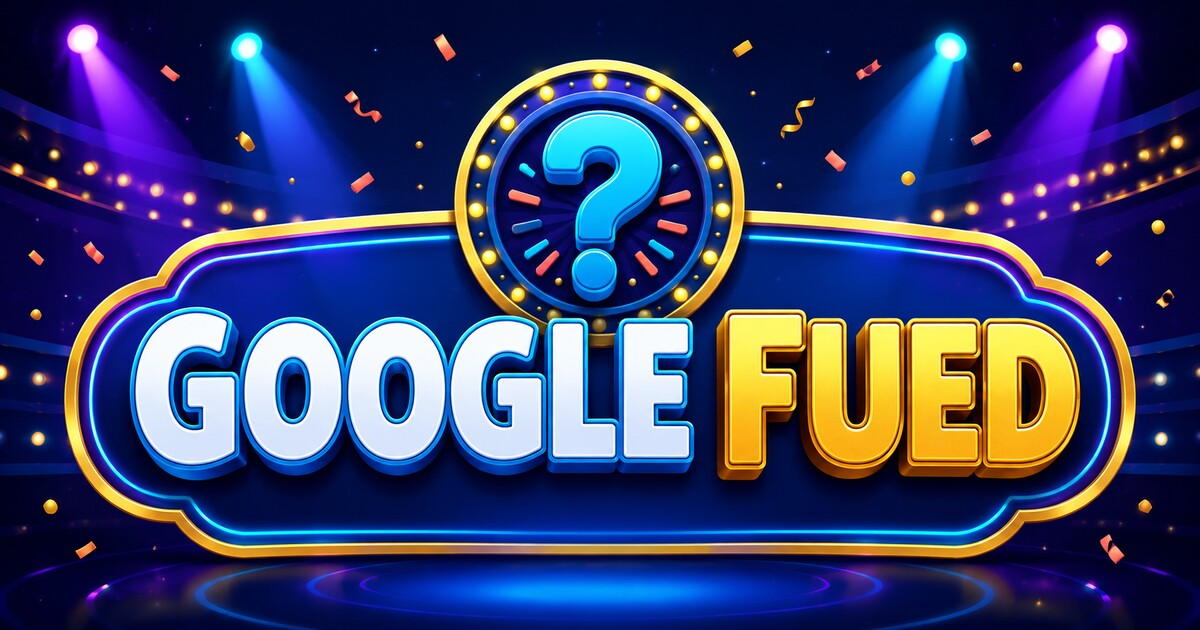
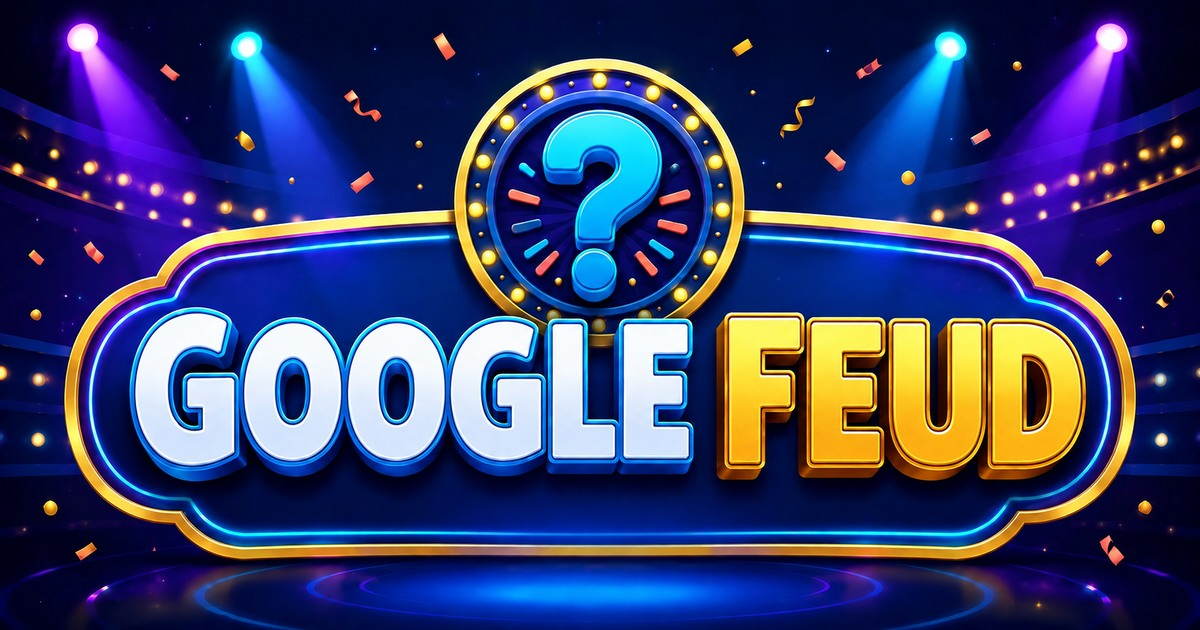
Correct Google Feud spelling across the project

diff --git a/src/services/storage.js b/src/services/storage.js
@@ -1,23 +1,42 @@
-const ACTIVE_GAME_KEY = "googlefued.activeGame";
-const DRAFT_ANSWER_KEY = "googlefued.draftAnswer";
-const RECENT_QUESTION_KEY = "googlefued.recentQuestions";
+const ACTIVE_GAME_KEY = "googlefeud.activeGame";
+const DRAFT_ANSWER_KEY = "googlefeud.draftAnswer";
+const RECENT_QUESTION_KEY = "googlefeud.recentQuestions";
+const LEGACY_KEYS = {
+  activeGame: "googlefued.activeGame",
+  draftAnswer: "googlefued.draftAnswer",
+  recentQuestions: "googlefued.recentQuestions"
+};
+
+function readWithLegacyMigration(key, legacyKey) {
+  const current = localStorage.getItem(key);
+  if (current !== null) return current;
+  const legacy = localStorage.getItem(legacyKey);
+  if (legacy !== null) {
+    localStorage.setItem(key, legacy);
+    localStorage.removeItem(legacyKey);
+  }
+  return legacy;
+}
 
 export const sessionStore = {
   setActiveGame(gameId) {
     localStorage.setItem(ACTIVE_GAME_KEY, gameId);
+    localStorage.removeItem(LEGACY_KEYS.activeGame);
   },
   getActiveGame() {
-    return localStorage.getItem(ACTIVE_GAME_KEY);
+    return readWithLegacyMigration(ACTIVE_GAME_KEY, LEGACY_KEYS.activeGame);
   },
   clearActiveGame() {
     localStorage.removeItem(ACTIVE_GAME_KEY);
+    localStorage.removeItem(LEGACY_KEYS.activeGame);
   },
   saveDraft(gameId, roundNumber, answer) {
     localStorage.setItem(DRAFT_ANSWER_KEY, JSON.stringify({ gameId, roundNumber, answer }));
+    localStorage.removeItem(LEGACY_KEYS.draftAnswer);
   },
   readDraft(gameId, roundNumber) {
     try {
-      const draft = JSON.parse(localStorage.getItem(DRAFT_ANSWER_KEY));
+      const draft = JSON.parse(readWithLegacyMigration(DRAFT_ANSWER_KEY, LEGACY_KEYS.draftAnswer));
       return draft?.gameId === gameId && draft?.roundNumber === roundNumber ? draft.answer : "";
     } catch {
       return "";
@@ -25,10 +44,11 @@ export const sessionStore = {
   },
   clearDraft() {
     localStorage.removeItem(DRAFT_ANSWER_KEY);
+    localStorage.removeItem(LEGACY_KEYS.draftAnswer);
   },
   getRecentQuestionIds() {
     try {
-      const ids = JSON.parse(localStorage.getItem(RECENT_QUESTION_KEY));
+      const ids = JSON.parse(readWithLegacyMigration(RECENT_QUESTION_KEY, LEGACY_KEYS.recentQuestions));
       return Array.isArray(ids) ? ids.filter((id) => typeof id === "string") : [];
     } catch {
       return [];
@@ -37,5 +57,6 @@ export const sessionStore = {
   rememberQuestionIds(ids, limit = 250) {
     const combined = [...ids, ...this.getRecentQuestionIds()];
     localStorage.setItem(RECENT_QUESTION_KEY, JSON.stringify([...new Set(combined)].slice(0, limit)));
+    localStorage.removeItem(LEGACY_KEYS.recentQuestions);
   }
 };

diff --git a/index.html b/index.html
@@ -5,19 +5,19 @@
     <meta name="viewport" content="width=device-width, initial-scale=1, viewport-fit=cover" />
     <meta name="theme-color" content="#100b38" />
     <meta name="description" content="A fast, family-friendly autocomplete guessing game." />
-    <meta property="og:title" content="Google Fued" />
+    <meta property="og:title" content="Google Feud" />
     <meta property="og:description" content="Can your answer climb the autocomplete board?" />
     <meta property="og:type" content="website" />
-    <meta property="og:url" content="https://seansommer.github.io/googlefued/" />
-    <meta property="og:image" content="https://seansommer.github.io/googlefued/assets/social-share.jpg" />
+    <meta property="og:url" content="https://seansommer.github.io/googlefeud/" />
+    <meta property="og:image" content="https://seansommer.github.io/googlefeud/assets/social-share.jpg" />
     <meta property="og:image:width" content="1200" />
     <meta property="og:image:height" content="630" />
-    <meta property="og:image:alt" content="Google Fued game-show stage with a glowing question mark" />
+    <meta property="og:image:alt" content="Google Feud game-show stage with a glowing question mark" />
     <meta name="twitter:card" content="summary_large_image" />
-    <meta name="twitter:title" content="Google Fued" />
+    <meta name="twitter:title" content="Google Feud" />
     <meta name="twitter:description" content="Can your answer climb the autocomplete board?" />
-    <meta name="twitter:image" content="https://seansommer.github.io/googlefued/assets/social-share.jpg" />
-    <title>Google Fued</title>
+    <meta name="twitter:image" content="https://seansommer.github.io/googlefeud/assets/social-share.jpg" />
+    <title>Google Feud</title>
     <link rel="manifest" href="./manifest.webmanifest" />
     <link rel="icon" href="./assets/icon.svg" type="image/svg+xml" />
     <link rel="preconnect" href="https://fonts.googleapis.com" />

diff --git a/src/services/effects.js b/src/services/effects.js
@@ -1,9 +1,17 @@
-const SOUND_PREFERENCE_KEY = "googlefued.soundEnabled.v1";
+const SOUND_PREFERENCE_KEY = "googlefeud.soundEnabled.v1";
+const LEGACY_SOUND_PREFERENCE_KEY = "googlefued.soundEnabled.v1";
 
 let audioContext = null;
 let soundEnabled = true;
 try {
-  soundEnabled = localStorage.getItem(SOUND_PREFERENCE_KEY) !== "false";
+  const storedPreference = localStorage.getItem(SOUND_PREFERENCE_KEY);
+  const legacyPreference = localStorage.getItem(LEGACY_SOUND_PREFERENCE_KEY);
+  const preference = storedPreference ?? legacyPreference;
+  soundEnabled = preference !== "false";
+  if (storedPreference === null && legacyPreference !== null) {
+    localStorage.setItem(SOUND_PREFERENCE_KEY, legacyPreference);
+    localStorage.removeItem(LEGACY_SOUND_PREFERENCE_KEY);
+  }
 } catch {
   soundEnabled = true;
 }
@@ -55,6 +63,7 @@ export const soundEffects = {
     soundEnabled = !soundEnabled;
     try {
       localStorage.setItem(SOUND_PREFERENCE_KEY, String(soundEnabled));
+      localStorage.removeItem(LEGACY_SOUND_PREFERENCE_KEY);
     } catch {
       // Sound still works for this visit when browser storage is unavailable.
     }

diff --git a/src/config.js b/src/config.js
@@ -1,11 +1,11 @@
 export const APP_CONFIG = {
-  title: "Google Fued",
+  title: "Google Feud",
   tagline: "Guess what the internet finishes.",
   officialDisclaimer:
     "Unofficial, fan-made party game. Not affiliated with or endorsed by Google LLC or Family Feud.",
   funnyDisclaimer:
     "Autocomplete has a mind of its own. No search engines were emotionally consulted.",
-  repositoryUrl: "https://github.com/seansommer/googlefued",
+  repositoryUrl: "https://github.com/seansommer/googlefeud",
   scoreByRank: [10, 7, 5, 4, 3, 2, 1],
   maxPlayers: 16,
   minRounds: 1,
@@ -21,7 +21,7 @@ export const APP_CONFIG = {
     appId: "1:725218404048:web:4213999a77be57a59ca0d5"
   },
   // A Cloudflare Worker URL can protect a live suggestion-provider API key.
-  // Example: https://googlefued-suggestions.YOUR-NAME.workers.dev
+  // Example: https://googlefeud-suggestions.YOUR-NAME.workers.dev
   suggestionEndpoint: ""
 };
 

diff --git a/src/app.js b/src/app.js
@@ -221,7 +221,7 @@ function renderHome() {
     `${celebrationPieces(22, "home-confetti")}<section class="hero">
       <div class="hero-copy">
         <p class="eyebrow">The autocomplete party game</p>
-        <h1>GOOGLE <span class="accent">FUED</span></h1>
+        <h1>GOOGLE <span class="accent">FEUD</span></h1>
         <p class="tagline">${escapeHtml(APP_CONFIG.tagline)}</p>
         <p class="disclaimer">${escapeHtml(APP_CONFIG.funnyDisclaimer)}</p>
         <div class="button-row center">

diff --git a/service-worker.js b/service-worker.js
@@ -1,4 +1,4 @@
-const CACHE = "googlefued-shell-v7";
+const CACHE = "googlefeud-shell-v8";
 const ASSETS = [
   "./",
   "./index.html",

diff --git a/docs/SETUP.md b/docs/SETUP.md
@@ -5,14 +5,20 @@ Work through these sections in order. The app runs only against the live Firebas
 ## 1. Create the Firebase project
 
 1. Go to [Firebase Console](https://console.firebase.google.com/), sign in, and choose **Create a project**.
-2. Use a name such as `googlefued`. Google Analytics is not required for this game and can remain disabled.
+2. Use a name such as `googlefeud`. Google Analytics is not required for this game and can remain disabled.
 3. Keep the project on Firebase's no-cost **Spark** plan.
 4. From Project Overview, choose the **Web** icon (`</>`).
-5. Register a web app named `Google Fued Web`. Firebase Hosting is not needed because GitHub Pages hosts the files.
+5. Register a web app named `Google Feud Web`. Firebase Hosting is not needed because GitHub Pages hosts the files.
 6. Firebase displays a configuration object containing `apiKey`, `authDomain`, `databaseURL` or project information, `projectId`, and `appId`.
 7. Open `src/config.js` and replace every `REPLACE_ME` value inside `APP_CONFIG.firebase`. If the registration snippet does not show `databaseURL`, add it after creating Realtime Database in Step 3 below.
 
 Firebase's web configuration is designed to appear in browser code. Do not treat it as a private server key. Security comes from Authentication and Database Rules.
+
+### Existing-project spelling correction
+
+For the current project, open **Project settings → General** and change both **Project name** and **Public-facing name** to `Google Feud`. Also update the web app nickname to `Google Feud Web` if Firebase offers the edit control.
+
+Do not change the existing `projectId`, `authDomain`, or `databaseURL` values in `src/config.js`. Firebase project IDs are permanent after resource provisioning, so the current internal identifier must remain in those three connection values. It is not displayed anywhere in the game. A completely new Firebase project would be required to replace that internal ID and would require migrating every account, game, and statistic.
 
 ## 2. Enable password-free sign-in
 
@@ -103,7 +109,7 @@ Use either Cloudflare's browser editor or Wrangler. The browser route is simples
 
 1. Create a free [Cloudflare](https://dash.cloudflare.com/) account.
 2. Open **Workers & Pages → Create → Worker**.
-3. Name the Worker `googlefued-suggestions`.
+3. Name the Worker `googlefeud-suggestions`.
 4. Replace the sample code with `cloudflare-worker/worker.js`, then deploy.
 5. Open the Worker's **Settings → Variables and Secrets**.
 6. Add a secret named `SERPAPI_KEY` containing the SerpApi key.
@@ -114,9 +120,9 @@ Use either Cloudflare's browser editor or Wrangler. The browser route is simples
    ```
 
 8. Redeploy the Worker if Cloudflare requests it.
-9. Copy the Worker's `https://...workers.dev` URL.
-10. Open `https://YOUR-WORKER.workers.dev/health` and confirm it returns `{"ok":true,"providerConfigured":true}`.
-11. In `src/config.js`, set `suggestionEndpoint` to the Worker base URL, without `/health`.
+9. Copy the Worker's URL: `https://googlefeud-suggestions.musicmansean87.workers.dev`.
+10. Open `https://googlefeud-suggestions.musicmansean87.workers.dev/health` and confirm it returns `{"ok":true,"providerConfigured":true}`.
+11. In `src/config.js`, set `suggestionEndpoint` to that Worker base URL, without `/health`.
 
 The Worker validates input, limits CORS to the GitHub Pages origin, keeps the key server-side, returns exactly seven results, and disables provider caching. New games then use 500 varied prompt starters, remember the last 250 prompt IDs on that host device, and request the answer board immediately before each round. If one prompt returns fewer than seven results, the app tries another unused prompt. It never substitutes a saved board into a live game.
 
@@ -125,20 +131,20 @@ The Worker validates input, limits CORS to the GitHub Pages origin, keeps the ke
 The repository address will be:
 
 ```text
-https://github.com/seansommer/googlefued
+https://github.com/seansommer/googlefeud
 ```
 
 The published game address will be:
 
 ```text
-https://seansommer.github.io/googlefued/
+https://seansommer.github.io/googlefeud/
 ```
 
 ### GitHub website method
 
 1. Sign in to GitHub as `seansommer`.
 2. Choose **New repository**.
-3. Set the repository name to `googlefued`.
+3. Set the repository name to `googlefeud`.
 4. Choose **Public**. GitHub Free Pages for this project requires a public repository.
 5. Do not add a second README, license, or `.gitignore`; the project already includes them.
 6. Upload every project file and folder, preserving the folder structure.
@@ -146,7 +152,7 @@ https://seansommer.github.io/googlefued/
 8. Open **Settings → Pages**.
 9. Under **Build and deployment → Source**, choose **GitHub Actions**.
 10. Open the repository's **Actions** tab. The included Pages workflow should run automatically.
-11. When it finishes successfully, open `https://seansommer.github.io/googlefued/`.
+11. When it finishes successfully, open `https://seansommer.github.io/googlefeud/`.
 
 Every future commit to `main` automatically republishes the site.
 

diff --git a/docs/GO_LIVE.md b/docs/GO_LIVE.md
@@ -5,20 +5,25 @@ The website, accounts, rooms, scores, teams, and game history already use the li
 ## What is needed
 
 1. A SerpApi account and private API key.
-2. A Cloudflare account with the `googlefued-suggestions` Worker deployed.
+2. The deployed `googlefeud-suggestions` Cloudflare Worker.
 3. The public Worker URL added to `src/config.js`.
 
 The SerpApi key must never be placed in ChatGPT messages, GitHub, `src/config.js`, or any browser file. Enter it only in Cloudflare as an encrypted Worker secret.
 
-## Deploy the Worker
+## Finish the deployed Worker
 
-1. In Cloudflare, open **Workers & Pages** and create a Worker named `googlefued-suggestions`.
-2. Replace the sample with the complete contents of `cloudflare-worker/worker.js` and deploy it.
-3. Open the Worker's **Settings → Variables and Secrets**.
-4. Add an encrypted secret named `SERPAPI_KEY`.
-5. Add a plain-text variable named `ALLOWED_ORIGIN` with the value `https://seansommer.github.io`.
-6. Redeploy after saving the variables.
-7. Open `https://YOUR-WORKER.workers.dev/health`.
+The corrected Worker is already deployed at:
+
+```text
+https://googlefeud-suggestions.musicmansean87.workers.dev
+```
+
+1. In Cloudflare, open **Workers & Pages → googlefeud-suggestions**.
+2. Open **Settings → Variables and Secrets**.
+3. Add an encrypted secret named `SERPAPI_KEY`.
+4. Confirm the plain-text `ALLOWED_ORIGIN` variable is `https://seansommer.github.io`.
+5. Redeploy after saving the secret.
+6. Open `https://googlefeud-suggestions.musicmansean87.workers.dev/health`.
 
 A ready Worker returns:
 
@@ -31,7 +36,7 @@ A ready Worker returns:
 Copy only the public Worker base URL. In `src/config.js`, replace the empty value:
 
 ```js
-suggestionEndpoint: "https://YOUR-WORKER.workers.dev"
+suggestionEndpoint: "https://googlefeud-suggestions.musicmansean87.workers.dev"
 ```
 
 After that commit deploys, Create Game will show **Live answer boards** instead of **Saved-board testing mode**. Every live round selects a prompt from the 500-prompt pool and requests seven current suggestions immediately before the round opens.

diff --git a/README.md b/README.md
@@ -1,4 +1,4 @@
-# Google Fued
+# Google Feud
 
 A responsive, installable autocomplete party game for family gatherings. Players create accounts, join with a six-character code, submit one answer per round, confirm the suggested score, and compete across a host-selected number of rounds.
 
@@ -72,7 +72,7 @@ Follow [docs/SETUP.md](docs/SETUP.md) in order:
 1. Create and configure the Firebase project.
 2. Enable Firebase Anonymous Authentication and publish the included database rules.
 3. Configure live autocomplete to unlock the 500-prompt current-results mode.
-4. Create the `seansommer/googlefued` public repository and enable GitHub Pages.
+4. Create the `seansommer/googlefeud` public repository and enable GitHub Pages.
 5. Run the launch checklist on at least two devices.
 
 For the final answer-provider connection only, use [docs/GO_LIVE.md](docs/GO_LIVE.md).
@@ -89,7 +89,7 @@ For the final answer-provider connection only, use [docs/GO_LIVE.md](docs/GO_LIV
 
 ## Naming and attribution
 
-The app currently uses the requested working title “Google Fued.” Its design does not imitate Google's logo, color sequence, typography, or interface. The app includes an on-screen notice that it is unofficial and is not affiliated with Google LLC or Family Feud.
+The app currently uses the requested working title “Google Feud.” Its design does not imitate Google's logo, color sequence, typography, or interface. The app includes an on-screen notice that it is unofficial and is not affiliated with Google LLC or Family Feud.
 
 Google's published brand guidance advises developers not to incorporate “Google” into a product name. Before broad public distribution, consider changing `APP_CONFIG.title` and the matching metadata to a unique title such as “Autocomplete Showdown.”
 

diff --git a/docs/UPDATE_PASSWORDLESS.md b/docs/UPDATE_PASSWORDLESS.md
@@ -16,7 +16,7 @@ This is a trust-based family profile, not verified identity. Anyone who knows th
 ## Update the GitHub files
 
 1. Extract the password-free update ZIP.
-2. In the `googlefued` repository, choose **Add file → Upload files**.
+2. In the `googlefeud` repository, choose **Add file → Upload files**.
 3. Drag in the contents of the extracted update folder while preserving its `src` and `docs` folders.
 4. Confirm that GitHub lists the existing files as changed or replaced, then commit directly to `main`.
 5. Do not replace `src/config.js`; the update ZIP intentionally excludes it so your Firebase values remain untouched.
